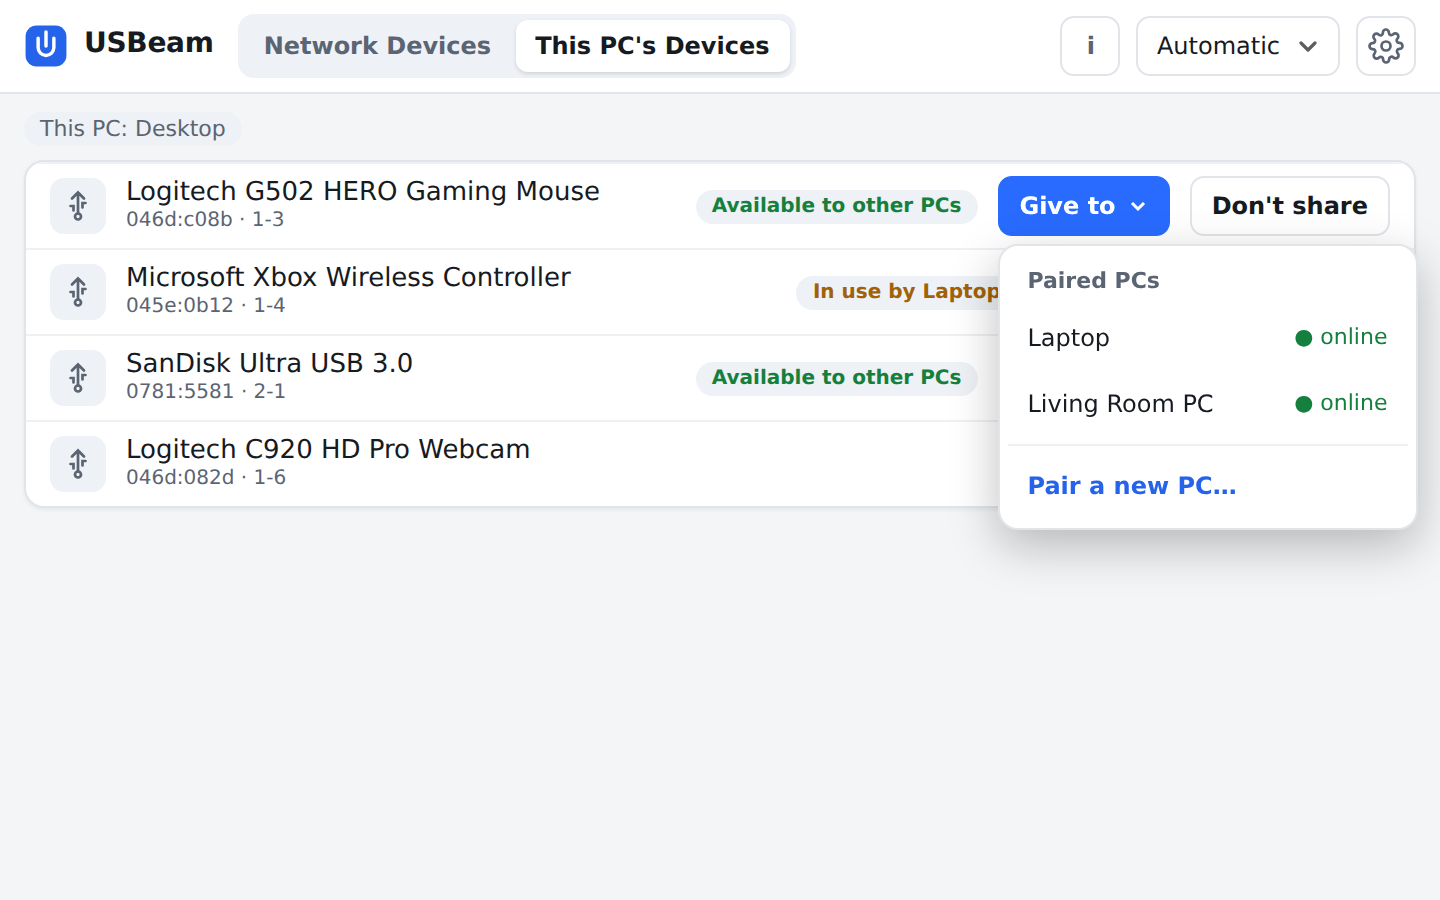
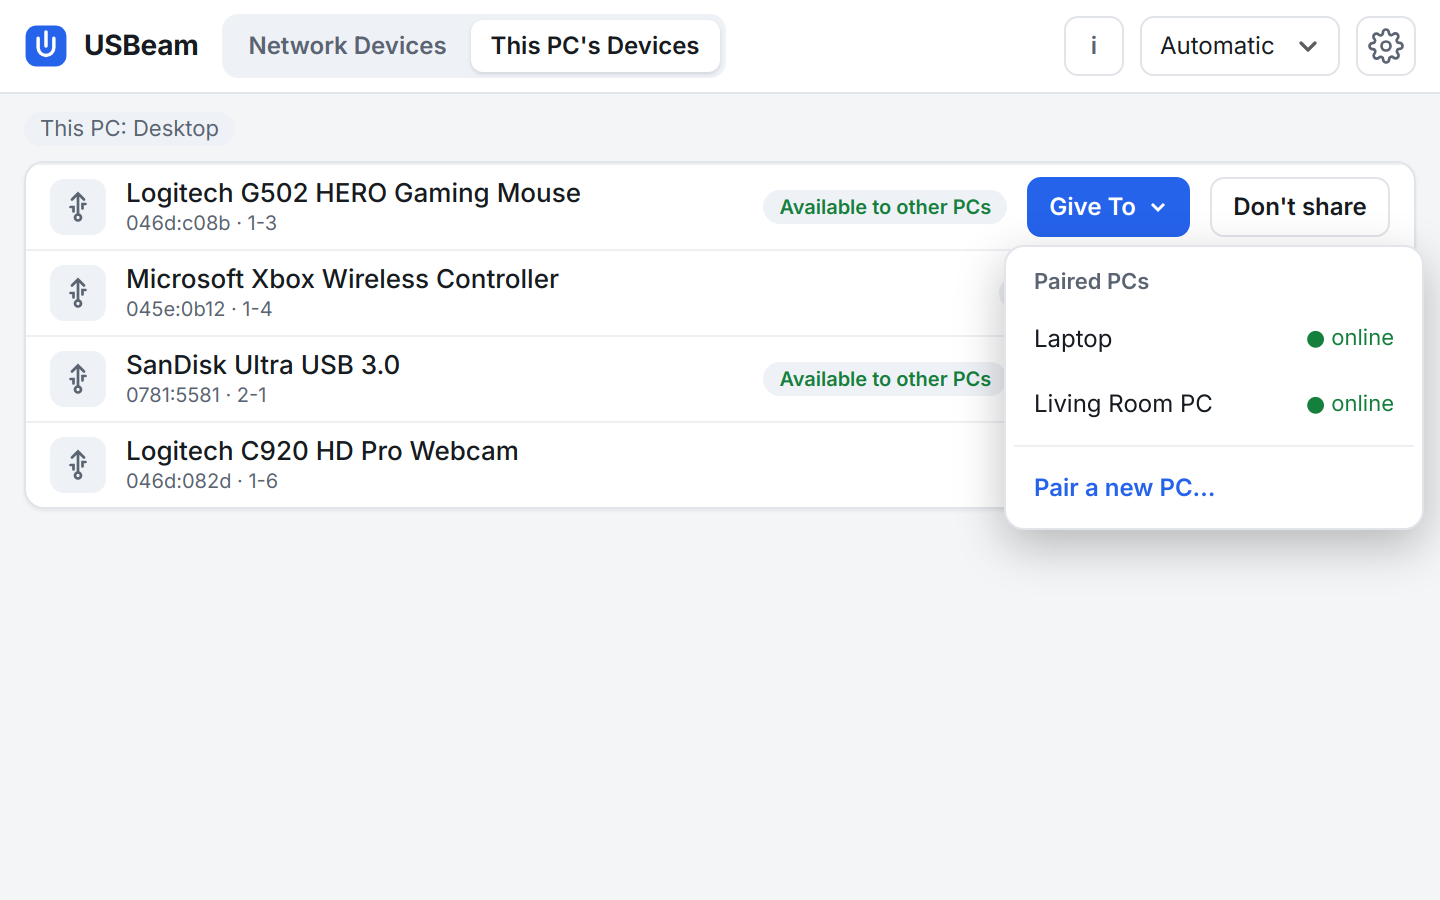
Rename "Give to" to "Give To"
Claude-Session: https://claude.ai/code/session_01WRCBfuiuynH3ZJTXiX1qtn

diff --git a/src/common/ui.html b/src/common/ui.html
@@ -455,7 +455,7 @@ function renderLocal(all) {
     }[d.state] || [d.state, '', null, null, ''];
     let label = M[0];
     const btn = (M[2] && !d.fixed) ? `<button class="btn ${M[4]}" style="min-width:90px" data-act="${attr(Object.assign({ op: M[3] }, id))}">${esc(M[2])}</button>` : '<span class="noact" style="min-width:90px">—</span>';
-    const give = d.state === 'available' && !d.fixed ? `<button class="btn primary" style="min-width:0;display:inline-flex;align-items:center;gap:6px" aria-haspopup="true" data-give="${attr({ busid: d.id, name: d.name })}">Give to <svg width="10" height="10" viewBox="0 0 10 10" aria-hidden="true"><path d="M2 3.5l3 3 3-3" fill="none" stroke="currentColor" stroke-width="1.5"></path></svg></button>` : '';
+    const give = d.state === 'available' && !d.fixed ? `<button class="btn primary" style="min-width:0;display:inline-flex;align-items:center;gap:6px" aria-haspopup="true" data-give="${attr({ busid: d.id, name: d.name })}">Give To <svg width="10" height="10" viewBox="0 0 10 10" aria-hidden="true"><path d="M2 3.5l3 3 3-3" fill="none" stroke="currentColor" stroke-width="1.5"></path></svg></button>` : '';
     const sub = [d.vid + ':' + d.pid, d.id, d.note].filter(Boolean).join(' · ');
     return `<div class="row"><div class="dicon">${ICON}</div>
       <div class="dinfo"><div class="dname">${esc(d.name)}</div><div class="dsub">${esc(sub)}</div></div>
@@ -752,7 +752,7 @@ function renderPairing(s) {
     const f = document.querySelector('#paircode input'); if (f) f.focus();
   } else if (stage === 'done') {
     modal(`<h3>${p.ok ? 'Paired' : 'Not paired'}</h3>
-      <p>${esc(p.msg)}</p>${p.ok ? '<p>You can now give devices between the two PCs with Give to, in This PC\'s Devices. This pairing is kept through updates.</p>' : ''}
+      <p>${esc(p.msg)}</p>${p.ok ? '<p>You can now give devices between the two PCs with Give To, in This PC\'s Devices. This pairing is kept through updates.</p>' : ''}
       <div class="acts">${p.ok ? '' : '<button class="btn" onclick="pairRestart()">Start again</button>'}<button class="btn primary" onclick="closeModal()">Close</button></div>`);
   } else if (stage === 'list') {
     const rows = cands.map(c => `<div class="pairpc">${PCICON}<span class="nm">${esc(c.name)}${c.paired ? ' <span class="pill accent">Paired</span>' : ''}</span>
@@ -788,7 +788,7 @@ function confirmUnpair(a) {
     <p>You can pair them again at any time.</p>
     <div class="acts"><button class="btn" onclick="pendingAct=null;closeModal()">Cancel</button><button class="btn danger" onclick="runPending()">Unpair</button></div>`);
 }
-// Give to: a small list of paired PCs under the button.
+// Give To: a small list of paired PCs under the button.
 function closeGive() { const g = document.getElementById('givemenu'); if (g) g.remove(); }
 function openGive(btn) {
   closeGive();

diff --git a/tests/pair_test.c b/tests/pair_test.c
@@ -2,7 +2,7 @@
 // Pairing test: two USBeam PCs (two processes, the real pairing code in src/common/pair.h,
 // talking over real network connections on this PC) pair with a 6-digit code, then use what
 // pairing allows. Checks: wrong codes, the 3-tries limit, pairing only while "Pair a PC" is open,
-// easy codes never chosen, a forged key refused, Give to, "Only paired PCs", unpair,
+// easy codes never chosen, a forged key refused, Give To, "Only paired PCs", unpair,
 // and that pairings survive a restart (saved and loaded again).
 #include <stdio.h>
 #include <stdlib.h>
@@ -247,7 +247,7 @@ int main(void) {
     check(strstr(b("msg"), "Paired with PC-A") != NULL, "PC-B shows Paired with PC-A");
     check(!strcmp(b("mode"), "600"), "PC-B's saved pairing file is readable by its owner only");
 
-    printf("4. Give to, and a forged key\n");
+    printf("4. Give To, and a forged key\n");
     snprintf(body, sizeof body, "\"pc\":\"id-b\",\"busid\":\"1-3\"");
     check(act("give", body) == 200, "PC-A gives device 1-3 to PC-B");
     check(!strcmp(b("given 1-3"), "1"), "PC-B is connecting it (no prompt needed)");
@@ -271,7 +271,7 @@ int main(void) {
     printf("6. Pairings survive a restart or update\n");
     check(!strcmp(b("reload"), "1"), "PC-B still knows PC-A after loading its file again");
     snprintf(body, sizeof body, "\"pc\":\"id-b\",\"busid\":\"1-5\"");
-    check(act("give", body) == 200, "and Give to still works with the loaded key");
+    check(act("give", body) == 200, "and Give To still works with the loaded key");
 
     printf("7. Three wrong codes end the pairing\n");
     b("open"); act("pair_open", "");
@@ -304,7 +304,7 @@ int main(void) {
     check(act("unpair", body) == 200 && !pair_is_paired("id-b"), "PC-A forgets PC-B");
     check(!strcmp(b("key id-a"), "-"), "PC-B forgets PC-A too");
     snprintf(body, sizeof body, "\"pc\":\"id-b\",\"busid\":\"1-6\"");
-    check(act("give", body) == 400 && strstr(g_out, "Pair with that PC first"), "Give to needs pairing again");
+    check(act("give", body) == 400 && strstr(g_out, "Pair with that PC first"), "Give To needs pairing again");
 
     b("quit");
     waitpid(pid, NULL, 0);

diff --git a/src/common/pair.h b/src/common/pair.h
@@ -2,7 +2,7 @@
 // Copyright (C) 2026 the USBeam contributors
 //
 // pair.h - pairing two PCs with a 6-digit code, and the requests only paired PCs can make
-// (Give to, permission to use a device, unpair). Shared by Windows and Linux; included after client.h.
+// (Give To, permission to use a device, unpair). Shared by Windows and Linux; included after client.h.
 //
 // How it works:
 //   - Pairing is only possible while "Pair a PC" is open on a PC (2 minutes at most).
@@ -12,7 +12,7 @@
 //     about the code or the key. Someone pretending to be one of the PCs gets one guess per try,
 //     out of a million codes; after 3 tries the pairing ends and must be started again by hand.
 //   - Each pair of PCs keeps one 32-byte key, in a file only the system can read.
-//   - Later requests (Give to, permission to use a device, unpair) prove they come from a paired
+//   - Later requests (Give To, permission to use a device, unpair) prove they come from a paired
 //     PC by answering a random challenge with that key (BLAKE2b). Replayed answers don't work.
 //   Crypto: Monocypher 4 (src/common/monocypher), X25519 + Elligator 2 + BLAKE2b.
 //

diff --git a/src/linux/host_linux.c b/src/linux/host_linux.c
@@ -176,7 +176,7 @@ static const char *dev_name(const char *busid, char *buf, size_t n) {
 
 // ---------------------------------------------------------------- bind / return
 // A USB reset right before a device goes to another PC. Without it, a device that was busy sending
-// data at that moment (a mouse being moved, for example while clicking "Give to" with it) can keep
+// data at that moment (a mouse being moved, for example while clicking "Give To" with it) can keep
 // one of its channels stuck: on the other PC its movement never arrives while its buttons work.
 // The reset starts every channel clean, on the device and on this PC. Its normal driver is already
 // detached here, so nothing on this PC is using it.

diff --git a/src/common/client.h b/src/common/client.h
@@ -70,7 +70,7 @@ typedef struct {
     unsigned long long next_try;
     unsigned long long attached_at;   // when it was connected here (for Auto-release)
     unsigned long long ended_at;      // when its connection ended (0 = hasn't)
-    unsigned long long give_until;    // given to this PC by its own PC (Give to): connect by then, or drop it
+    unsigned long long give_until;    // given to this PC by its own PC (Give To): connect by then, or drop it
     char name[128], vid[8], pid[8];  // last seen details (shown if the PC drops off for a while)
 } Use;
 

diff --git a/README.md b/README.md
@@ -14,7 +14,7 @@ drives, security keys: one click to use them on another PC, one click to give th
 
 - **Share and use devices.** Every installation can share its own USB devices
   and use devices shared by other computers. No device limits.
-- **Give to.** Send a device from the PC it's plugged into straight to another
+- **Give To.** Send a device from the PC it's plugged into straight to another
   PC you've paired with: it connects there right away, no clicks needed on the other side.
 - **Pair your PCs** with a one-time 6-digit code. Paired PCs trust each other, and you can
   choose to let only paired PCs use your devices. Pairing is kept through updates.
@@ -30,7 +30,7 @@ drives, security keys: one click to use them on another PC, one click to give th
 
 | | |
 |:---:|:---:|
-| <img src="docs/screenshots/give-to.png" alt="Give to: send a device to a paired PC" width="420"><br>**Give to** a paired PC | <img src="docs/screenshots/pairing-code.png" alt="Pairing code shown on the other PC" width="420"><br>**Pairing:** type the code the other PC shows |
+| <img src="docs/screenshots/give-to.png" alt="Give To: send a device to a paired PC" width="420"><br>**Give To** a paired PC | <img src="docs/screenshots/pairing-code.png" alt="Pairing code shown on the other PC" width="420"><br>**Pairing:** type the code the other PC shows |
 | <img src="docs/screenshots/pair-a-pc.png" alt="Pair a PC: pick the other PC" width="420"><br>**Pair a PC:** pick the other PC | <img src="docs/screenshots/paired-pcs.png" alt="Paired PCs in the settings menu" width="420"><br>**Paired PCs** and "Only paired PCs" in settings |
 | <img src="docs/screenshots/connect-over.png" alt="Connect over: home network, ZeroTier or Tailscale" width="420"><br>**Connect over** your home network, ZeroTier or Tailscale | <img src="docs/screenshots/dark-theme.png" alt="Dark theme" width="420"><br>**Dark theme** |
 
@@ -80,7 +80,7 @@ quit USBeam or uninstall it.
 2. On one of them, pick the other PC and click **Pair**.
 3. Type the 6-digit code the other PC shows.
 
-That's it: the two PCs stay paired, also after updates. **Give to** (in **This PC's Devices**)
+That's it: the two PCs stay paired, also after updates. **Give To** (in **This PC's Devices**)
 now lists the other PC.
 
 ## License
